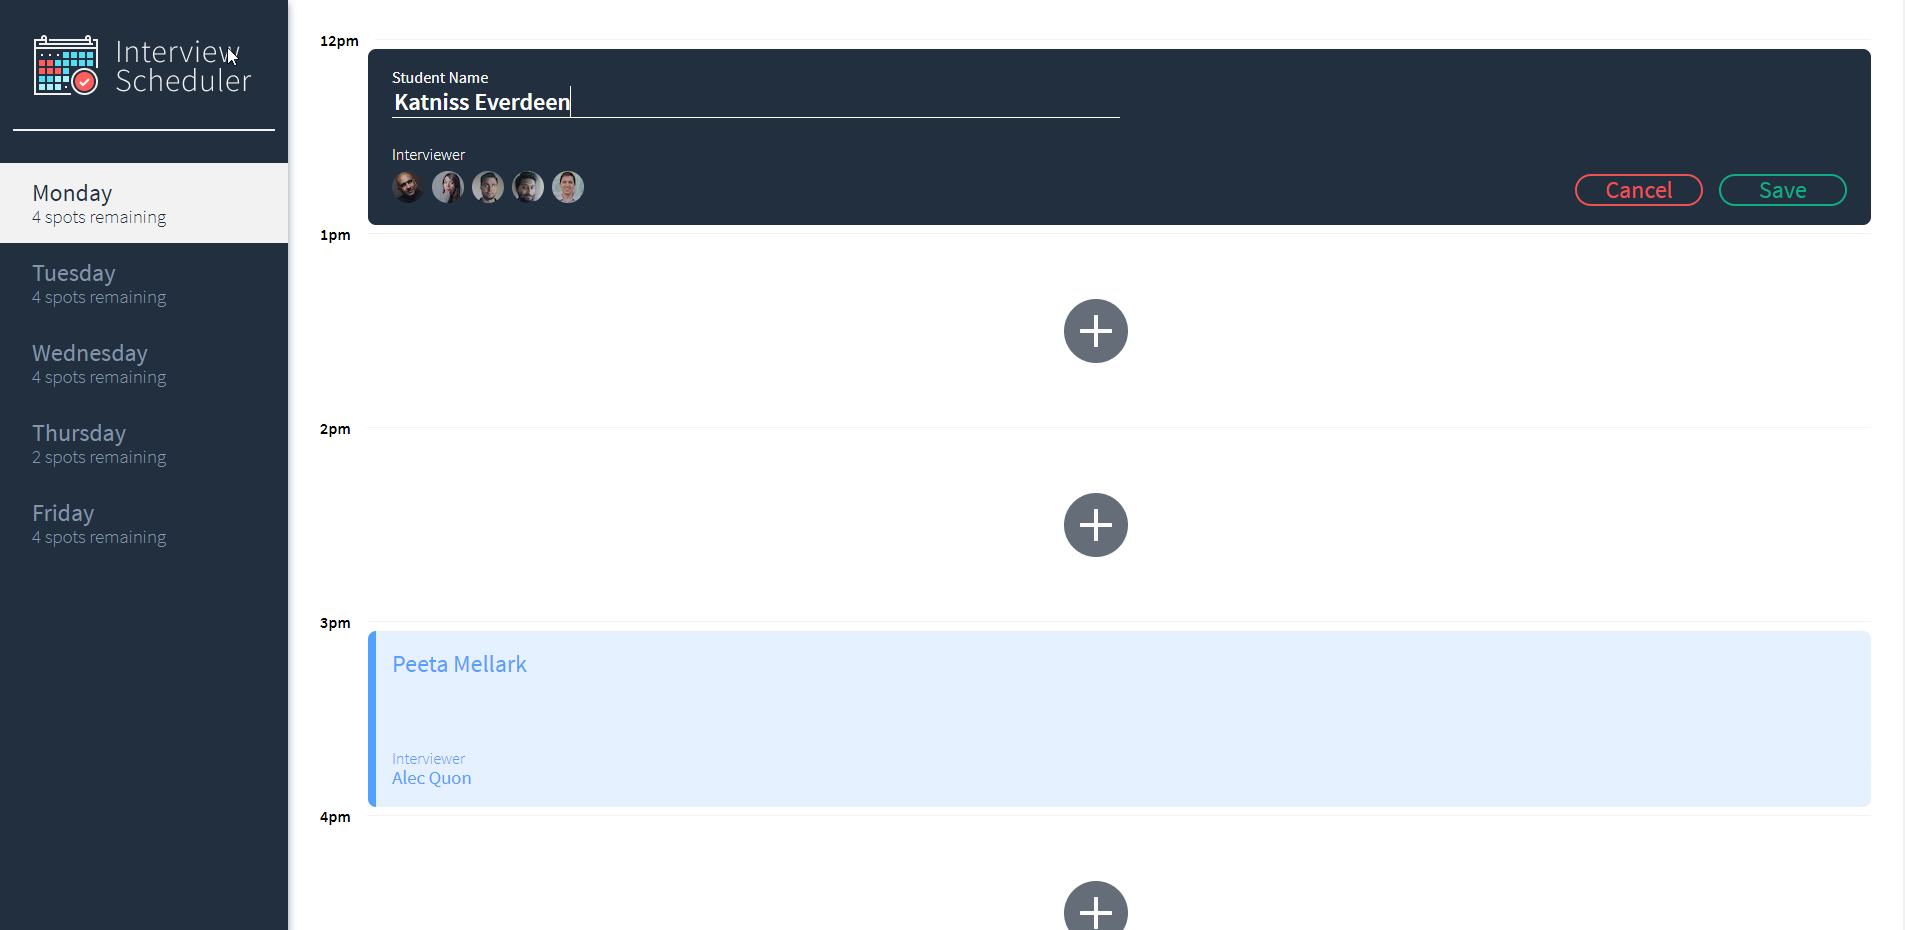
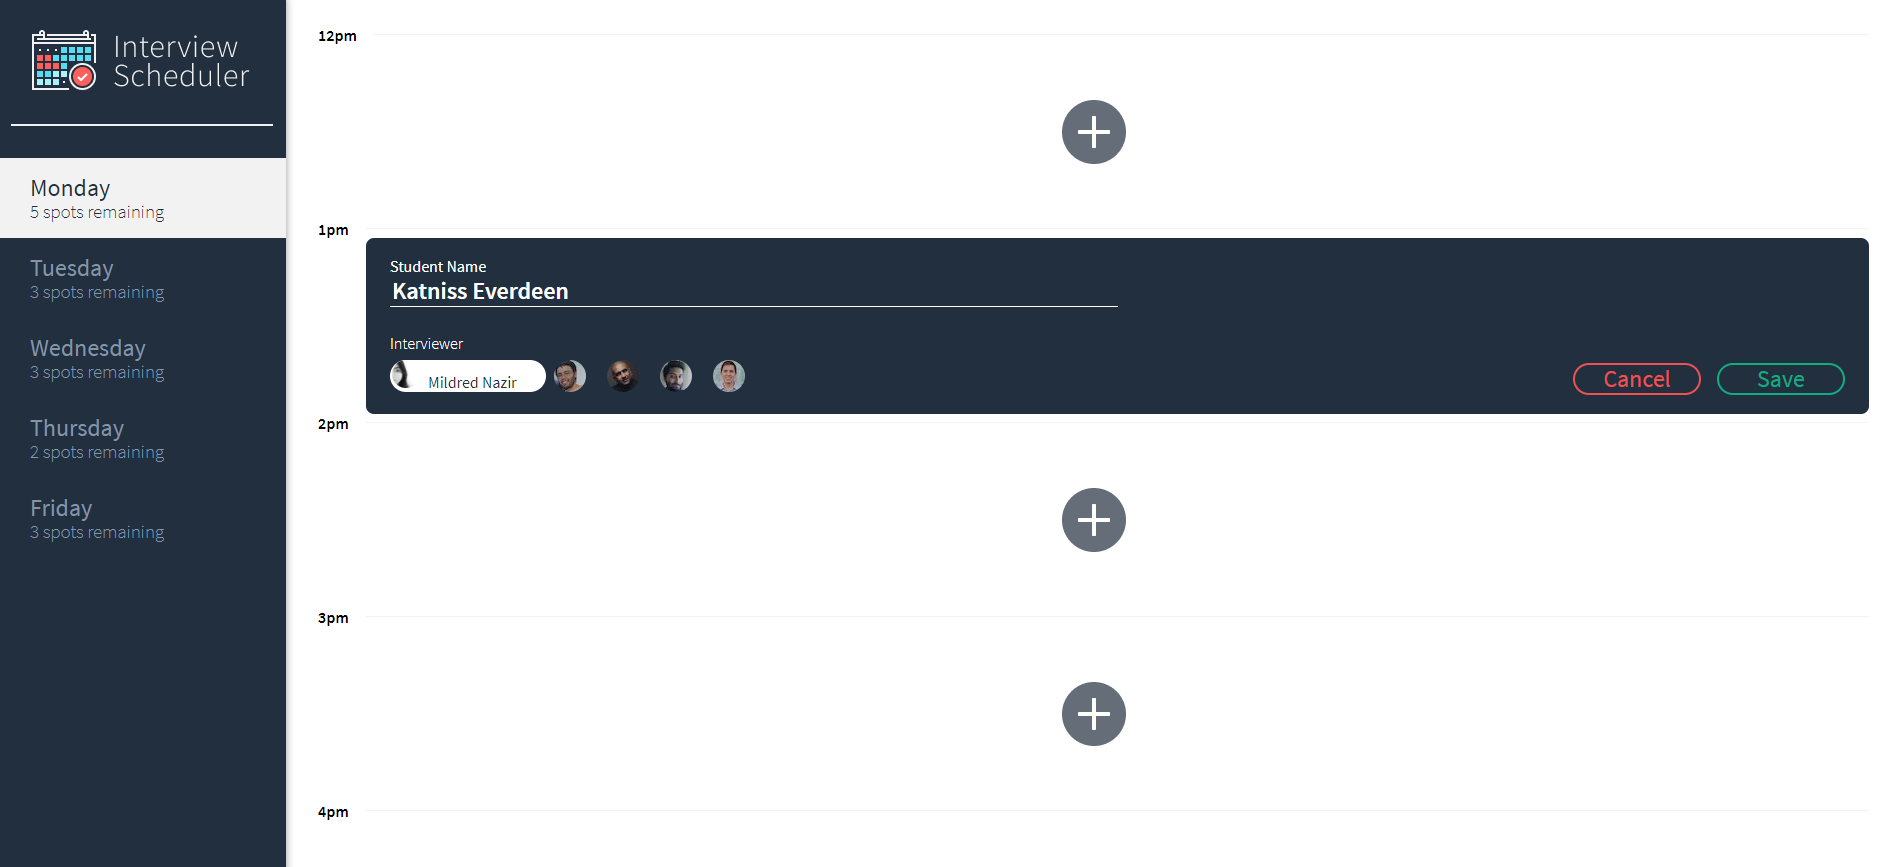
replace image for readme

diff --git a/README.md b/README.md
@@ -1,6 +1,8 @@
 # Interview Scheduler
 React application where users can create, edit and delete appointments with interviewers of their choice. This app was created in week 7 & 8 of Lighthouse Labs Web Development Bootcamp to learn develop React and Test Writing skills in both Jest & Cypress.
 
+![Create an appointment by entering your name and selecting an interviewer](/url)
+![description](/url)
 ![description](/url)
 
 ## Setup
